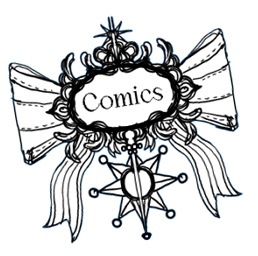
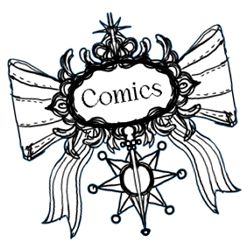
Se acomodan los botones de la home

diff --git a/src/css/home.scss b/src/css/home.scss
@@ -30,20 +30,20 @@
     .button {
         display: block;
         position: absolute;
-        left: calc(50% - 170px);
-        top: calc(50% - 170px);
+        left: calc(50% - 125px);
+        top: calc(50% - 125px);
         transition: all 0.5s cubic-bezier(0.18, 0.89, 0.32, 1.28);
 
-        $distance: 65%;
+        $distance: 90%;
         $startingAngle: -90deg;
 
         @for $i from 1 through 5 {
             &-#{$i} {
-                transform: polarTranslation($distance, $startingAngle + (($i - 1) * 72deg)) scale(0.7);
+                transform: polarTranslation($distance, $startingAngle + (($i - 1) * 72deg)) scale(0.85);
             }
 
             &-#{$i}:hover {
-                transform: polarTranslation($distance, $startingAngle + (($i - 1) * 72deg)) scale(0.85);
+                transform: polarTranslation($distance, $startingAngle + (($i - 1) * 72deg)) scale(0.90);
             }
         }
     }
